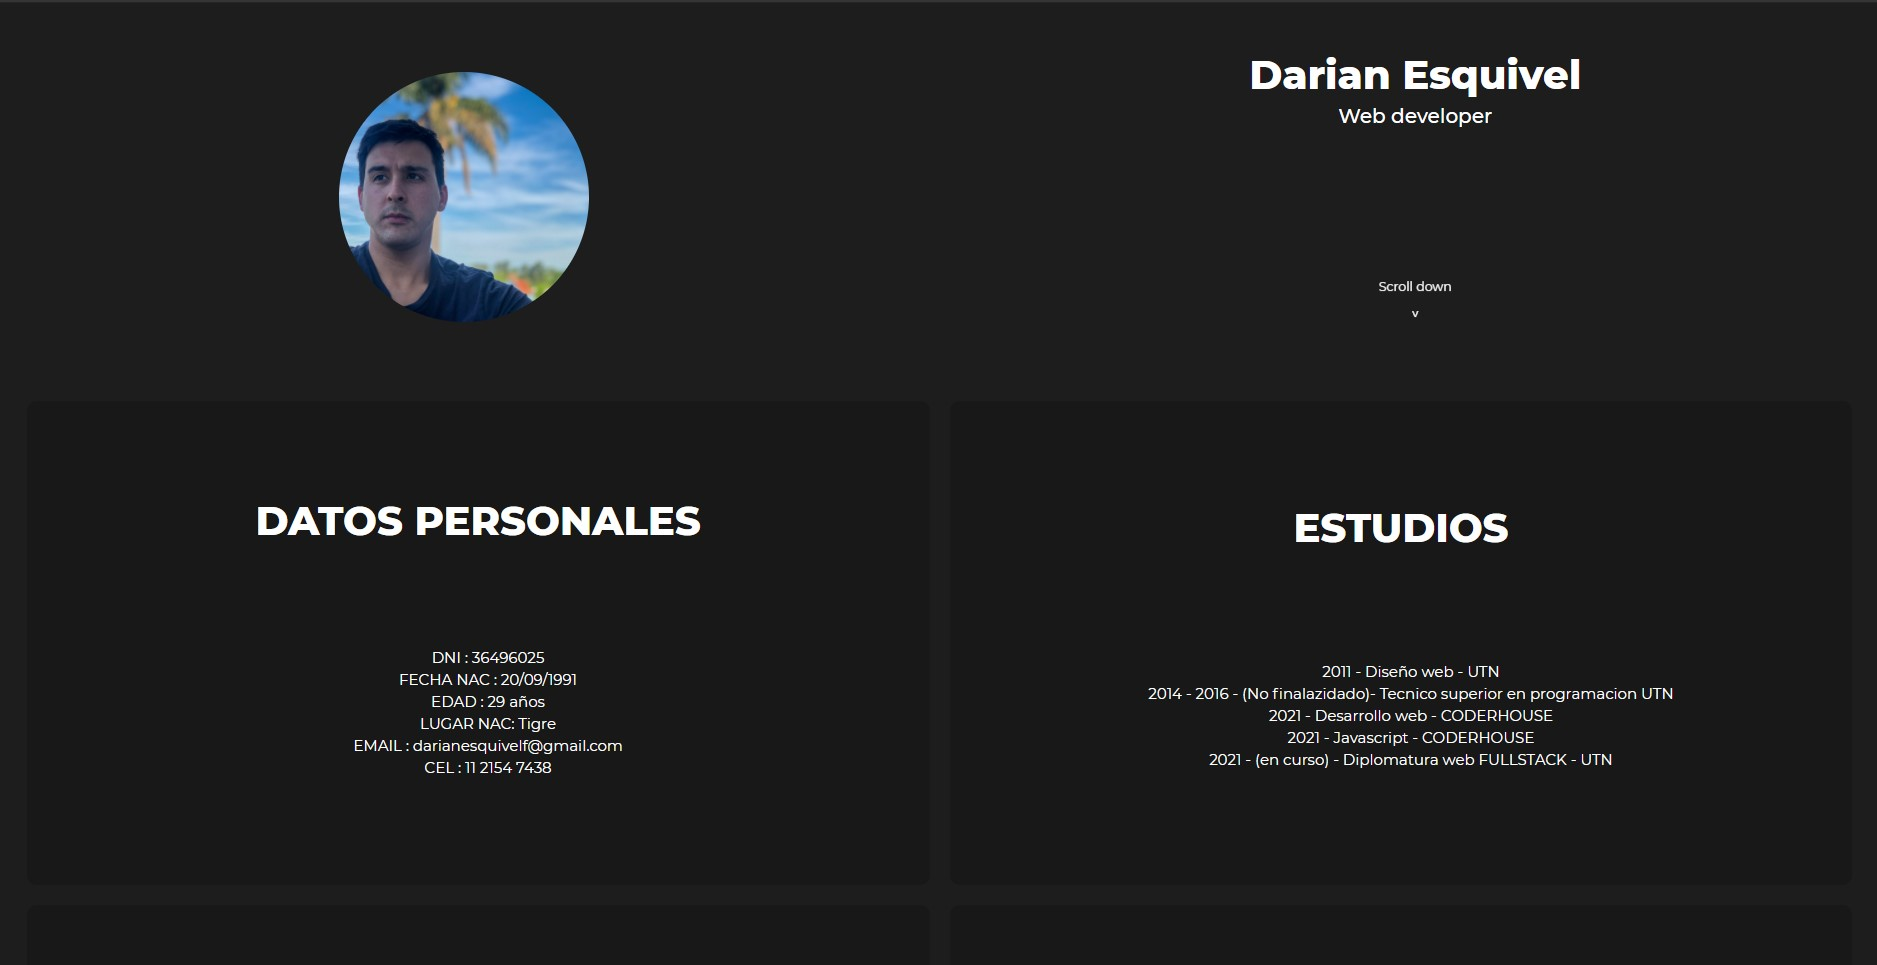
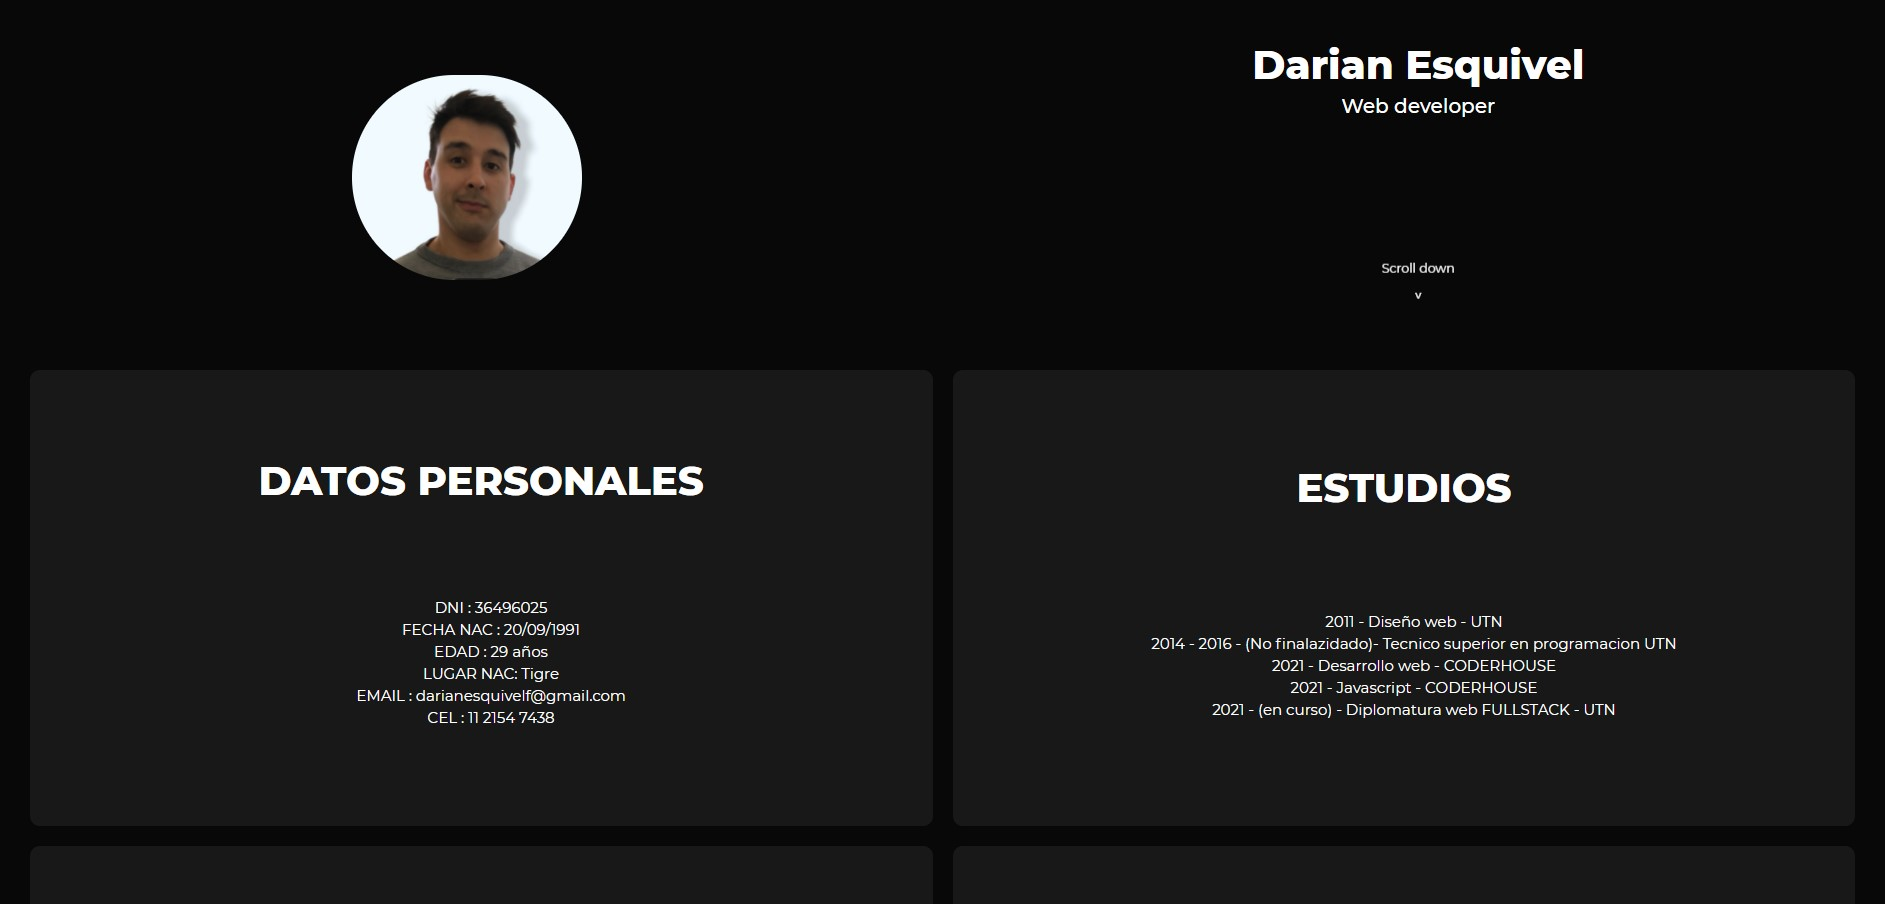
cambio imagenes

diff --git a/certificados/index.html b/certificados/index.html
@@ -25,7 +25,7 @@
       <section class="section1">
         <div class="containerNp">
           <div class="imgPrincipal">
-            <img class="imgPerfil" src="../img/1619645839622.jpg" alt="" />
+            <img class="imgPerfil" src="../img/IMG_6642.jpg" alt="" />
           </div>
           <div class="infoPrincipal">
             <div class="nameWd">

diff --git a/portfolio/index.html b/portfolio/index.html
@@ -25,7 +25,7 @@
       <section class="section1">
         <div class="containerNp">
           <div class="imgPrincipal">
-            <img class="imgPerfil" src="../img/1619645839622.jpg" alt="" />
+            <img class="imgPerfil" src="../img/IMG_6642.jpg" alt="" />
           </div>
           <div class="infoPrincipal">
             <div class="nameWd">
